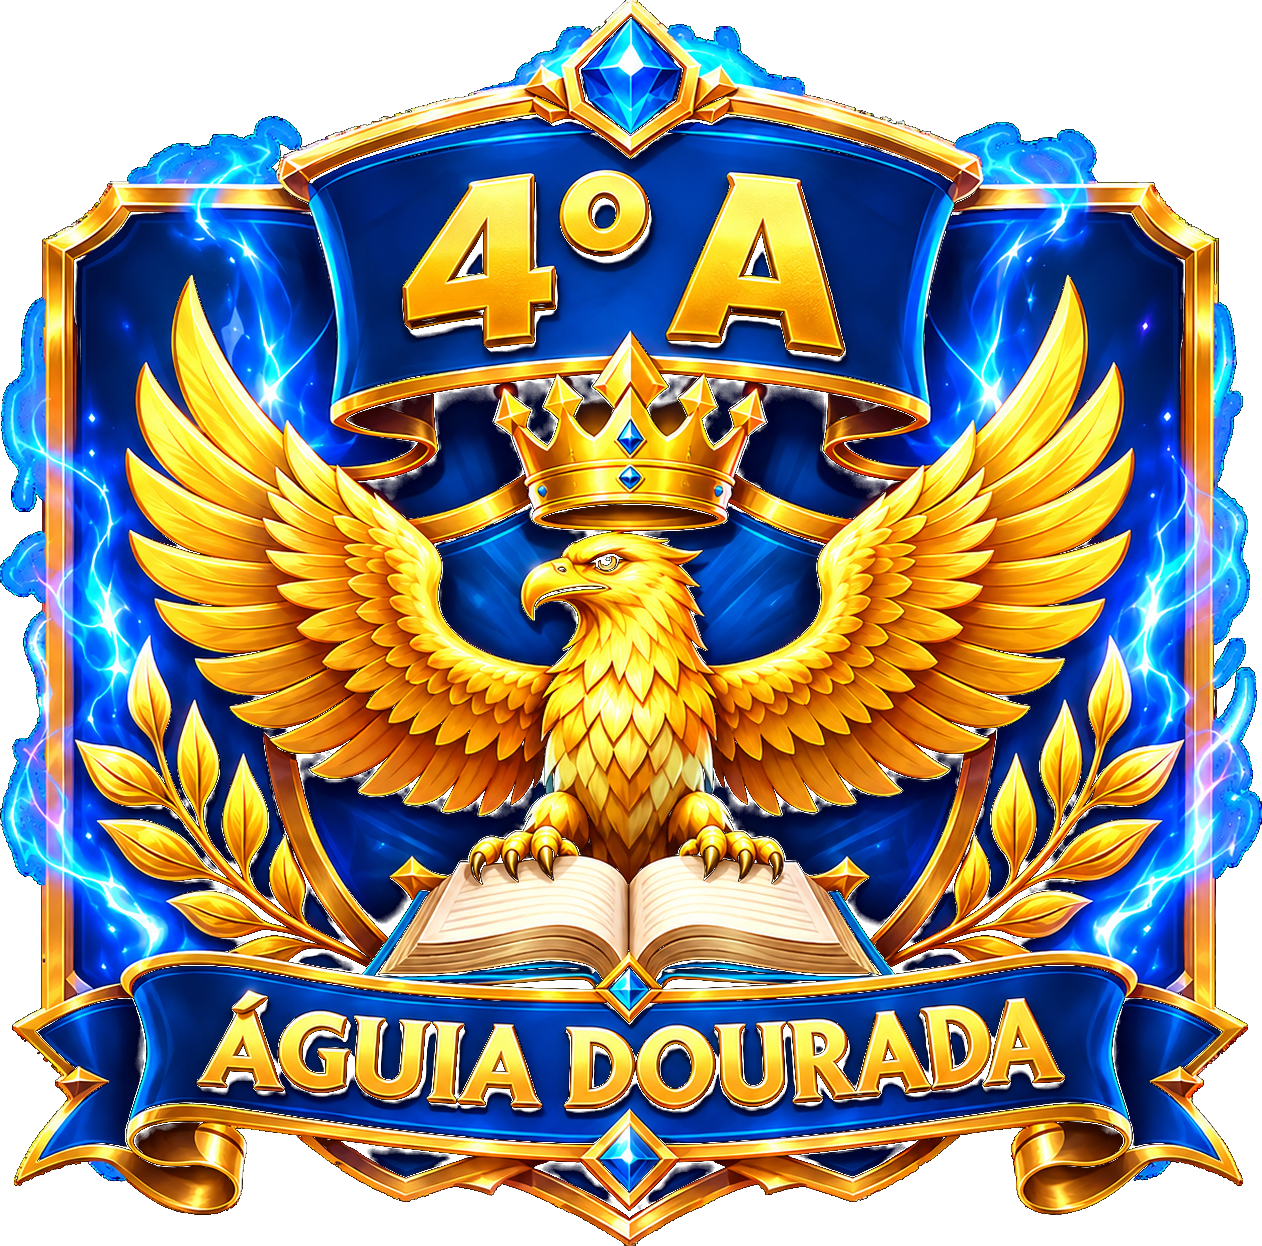
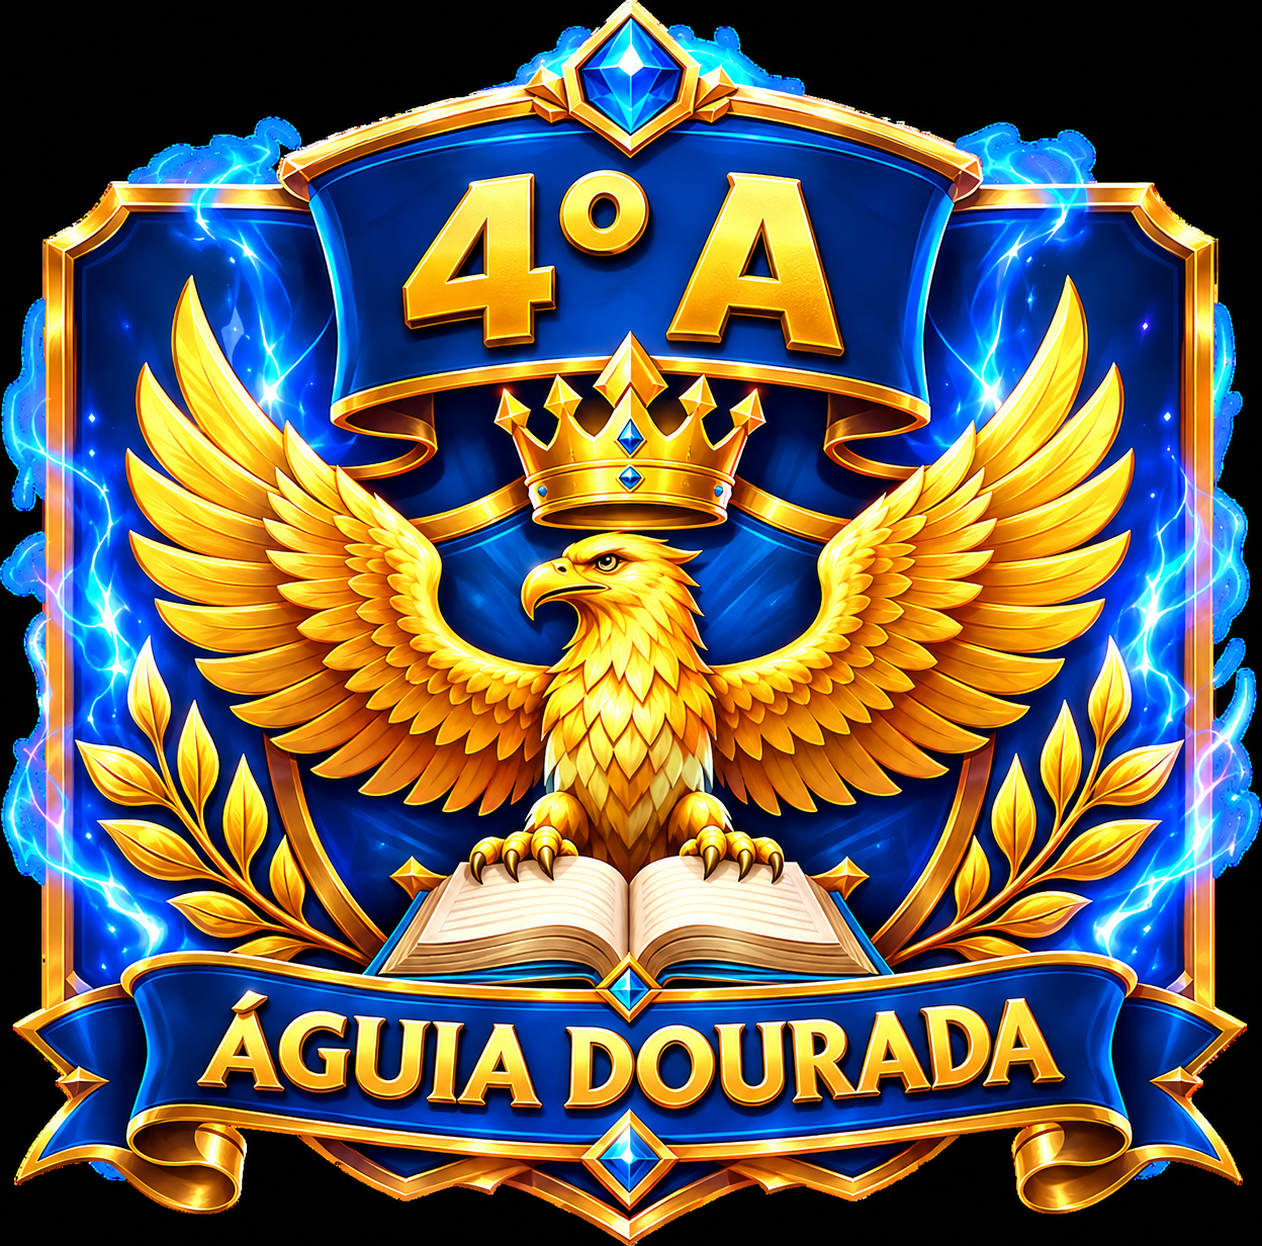
Add files via upload

diff --git a/css/style.css b/css/style.css
@@ -245,3 +245,12 @@ h1{font-family:"Baloo 2",sans-serif;font-size:clamp(34px,5vw,62px);line-height:.
 
 .castleCarouselFixed{max-width:1000px;margin:10px auto 8px;padding:0 12px}.castleCarouselViewport{overflow:hidden;border-radius:22px;border:3px solid #ffc23d;background:#fff;box-shadow:0 8px 20px #50378a22}.castleCarouselTrack{display:flex;transition:transform .75s cubic-bezier(.22,.8,.25,1)}.castleSlide{min-width:100%;height:205px;display:flex;align-items:center;justify-content:center;position:relative;background:linear-gradient(135deg,#eaf8ff,#fff5c7)}.castleSlide img{width:100%;height:100%;object-fit:cover;object-position:center;display:block}.castleSlide span{display:none;position:absolute;left:50%;bottom:10px;transform:translateX(-50%);background:#442a87e8;color:#fff;padding:7px 16px;border-radius:999px;font-weight:900;border:2px solid #ffd04a;white-space:nowrap}.castleCarouselDots{text-align:center;margin-top:5px}.castleCarouselDots button{width:10px;height:10px;border:0;border-radius:50%;margin:0 4px;background:#c9c6dc;cursor:pointer}.castleCarouselDots button.active{background:#56349a}.lastUpdate{max-width:1000px;margin:7px auto 11px;text-align:center;background:#fff8d9;border:2px solid #f4b72f;border-radius:14px;padding:7px 12px;font-weight:800;color:#513b79}.battleFooter{max-width:1000px;margin:18px auto 28px;background:#fff;border:2px solid #cfe0ef;border-radius:20px;padding:15px;box-shadow:0 8px 24px #46347a18}.battleFooter h2{margin:0;color:#5540a1}.battleFooter p{margin:5px 0 12px;color:#63788a}.battleFooterGrid{display:grid;grid-template-columns:repeat(9,1fr);gap:7px}.battleMonster{background:#f9fcff;border:1px solid #cfe1ee;border-radius:13px;padding:7px;text-align:center;font-size:10px;font-weight:900;cursor:pointer;min-width:0}.battleMonster img{width:100%;height:70px;object-fit:contain}.battleMonster b{display:block;font-size:11px}.battleMonster small{display:block;color:#7b629d;margin-top:2px}@media(max-width:850px){.battleFooterGrid{grid-template-columns:repeat(3,1fr)}.castleSlide{height:145px}}
 .snapshotNote{font-size:12px;opacity:.78;margin:-4px 0 12px;text-align:center}
+/* V1.0.4 — Cenário atrás do brasão do 4º A (sem alterar as demais Casas). */
+.realm.A .crestReal {
+  background: url("../assets/images/arte-031.jpg") center center / cover no-repeat !important;
+  border-radius: 24px !important;
+}
+.realm.A .crestReal img {
+  position: relative !important;
+  z-index: 1 !important;
+}

diff --git a/js/app.js b/js/app.js
@@ -21,7 +21,7 @@ const monsterDiff=[6,6.5,7,7,7.5,8,8,9,9.5];
 document.getElementById("battleFooterGrid").innerHTML=A.monsters.map((m,i)=>`<div class="battleMonster" onclick="showPop('Batalha de Monstros','${monsterNames[i]} • dificuldade ${monsterDiff[i]}.','index')"><img src="${m}" alt="${monsterNames[i]}"><b>${monsterNames[i]}</b><small>Dificuldade ${monsterDiff[i]}</small></div>`).join("");
 
 const RC=document.getElementById("realCards");
-const crestMap={A:A.crestsApproved[0],B:A.crestsApproved[1],C:A.crestsApproved[2]};
+const crestMap={A:"assets/images/brasao-4a-transparente.png",B:A.crestsApproved[1],C:A.crestsApproved[2]};
 function resourceModal(key,h){
  const extra={
   hp:`Valor atual: ${h.hp}/10. O HP representa a vida dos heróis e é influenciado pelas atitudes registradas no ClassMana.`,
